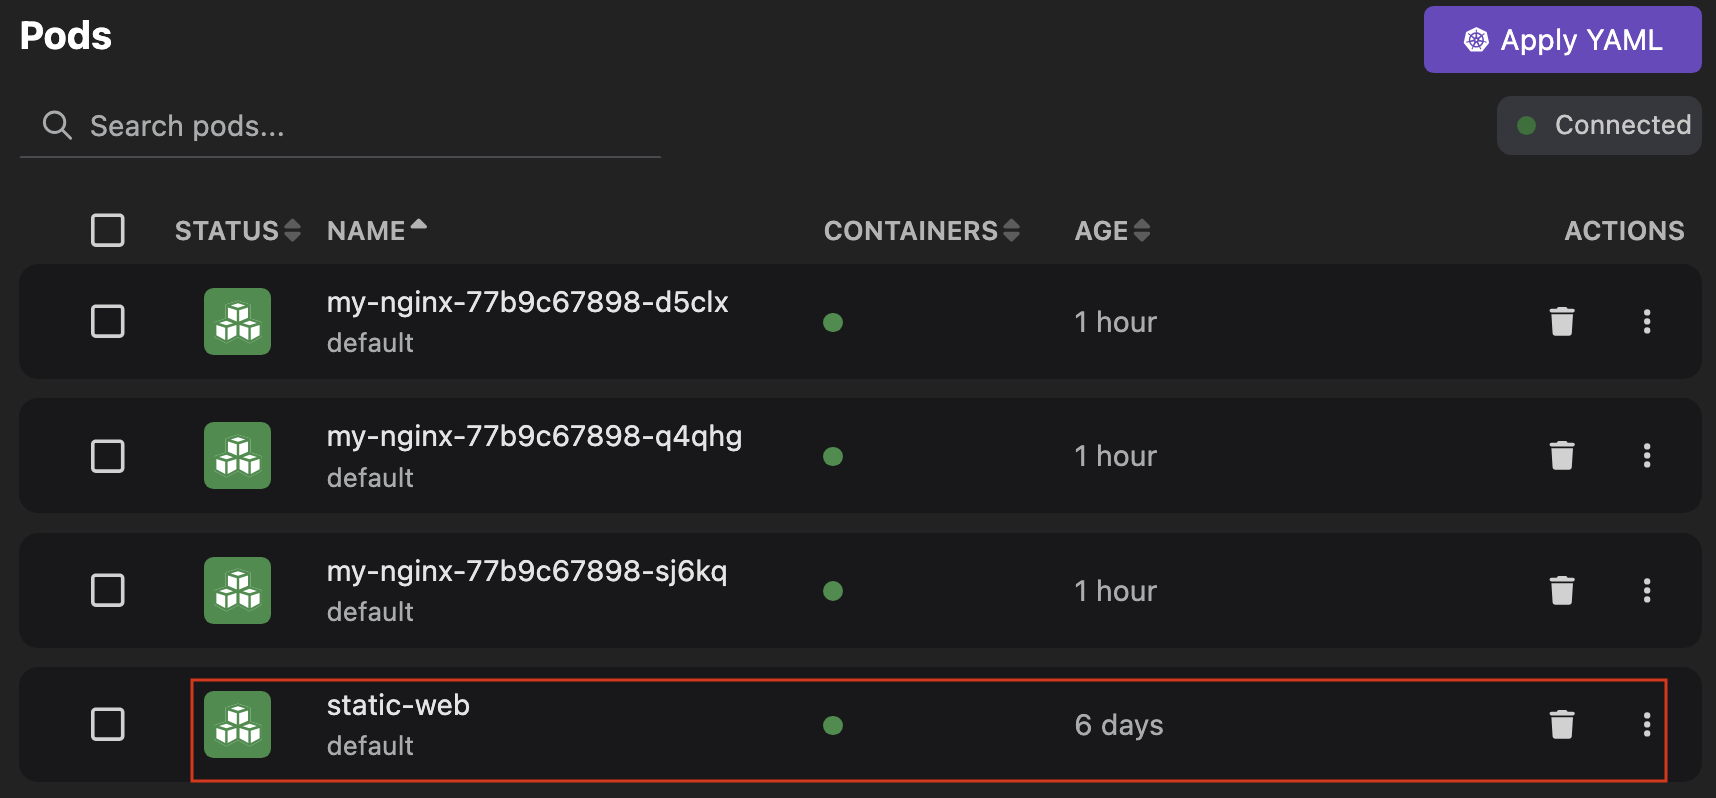
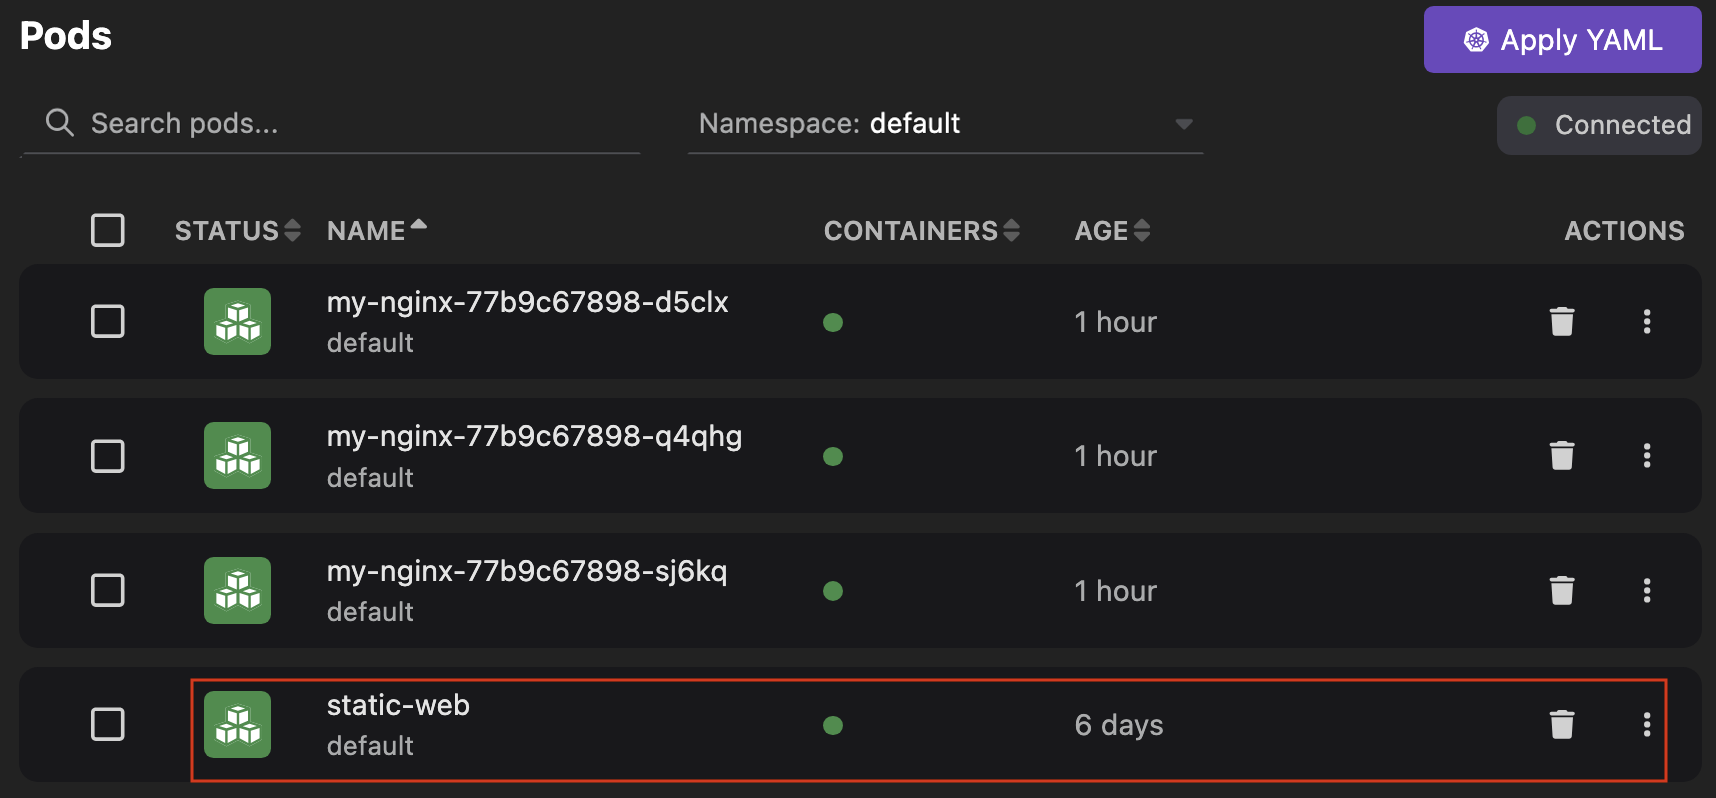
docs(website): updated the Kubernetes section to reflect how to switc… (#12009)
* docs(website): updated the Kubernetes section to reflect how to switch between namespaces

* docs(website): fixed the article usage

---------

Changed region(s): [[0.0309, 0.1203, 0.3706, 0.2105], [0.4015, 0.1203, 0.5559, 0.1805]]

diff --git a/website/docs/kubernetes/viewing-and-selecting-current-kubernetes-context.md b/website/docs/kubernetes/viewing-and-selecting-current-kubernetes-context.md
@@ -20,7 +20,7 @@ Based on your configurations, Podman Desktop automatically populates the context
 
 :::note
 
-When you select a Kubernetes context, you can access all the namespaces associated with it. However, you cannot switch from one namespace to another using the Podman Desktop UI. As an alternative, you can use this command: `kubectl config set-context --current --namespace=<name-of-the-namespace>`.
+When you select a Kubernetes context, you can access all the namespaces associated with it. You can switch from one namespace to another using the Kubernetes dashboard page or the Kubernetes object pages.
 
 :::
 

diff --git a/website/docs/kubernetes/configuring-editing-kube-object.md b/website/docs/kubernetes/configuring-editing-kube-object.md
@@ -71,7 +71,7 @@ spec:
 1. View the created object:
 
    - View the `Pod` object on the **Kubernetes > Pods** object page.
-   - View the other Kubernetes objects on the related object page. For example, if you have created a `Node` object, you can view it on the **Kubernetes > Nodes** page.
+   - View other Kubernetes objects on the related object page. For example, if you have created a `Node` object, you can view it on the **Kubernetes > Nodes** page.
 
 2. Optional: Click the name of the object to view its detailed summary.
    ![summary tab](img/summary-tab.png)

diff --git a/website/docs/kubernetes/deploying-a-pod-to-kubernetes.md b/website/docs/kubernetes/deploying-a-pod-to-kubernetes.md
@@ -45,7 +45,7 @@ With Podman Desktop, you can deploy a pod to your Kubernetes cluster with an act
 1. On the **Deploy generated pod to Kubernetes** screen, the created pod status is _Phase: Running_
    ![Deploying a pod](img/deploying-a-pod.png)
 
-1. Go to **Pods**: your Kubernetes pod is in the list.
+1. Go to **Kubernetes > Pods**: your Kubernetes pod is in the list.
    ![kube pod in the list](img/kube-pod-in-the-list.png)
 
 1. Optional: Check the running service on the **Kubernetes > Services** page.

diff --git a/website/docs/kubernetes/applying-a-yaml-manifest.md b/website/docs/kubernetes/applying-a-yaml-manifest.md
@@ -46,6 +46,7 @@ This YAML manifest creates three pods that run the NGINX web server.
 
 1. Go to the **Kubernetes** component page.
 1. Click **Deployments** in the left navigation pane.
+1. Select a namespace in which you want to create the object.
 1. Click **Apply YAML** and select the YAML manifest file. A confirmation notification opens.
    ![applying a yaml manifest](img/applying-a-yaml-manifest.png)
 1. Click **OK**.
